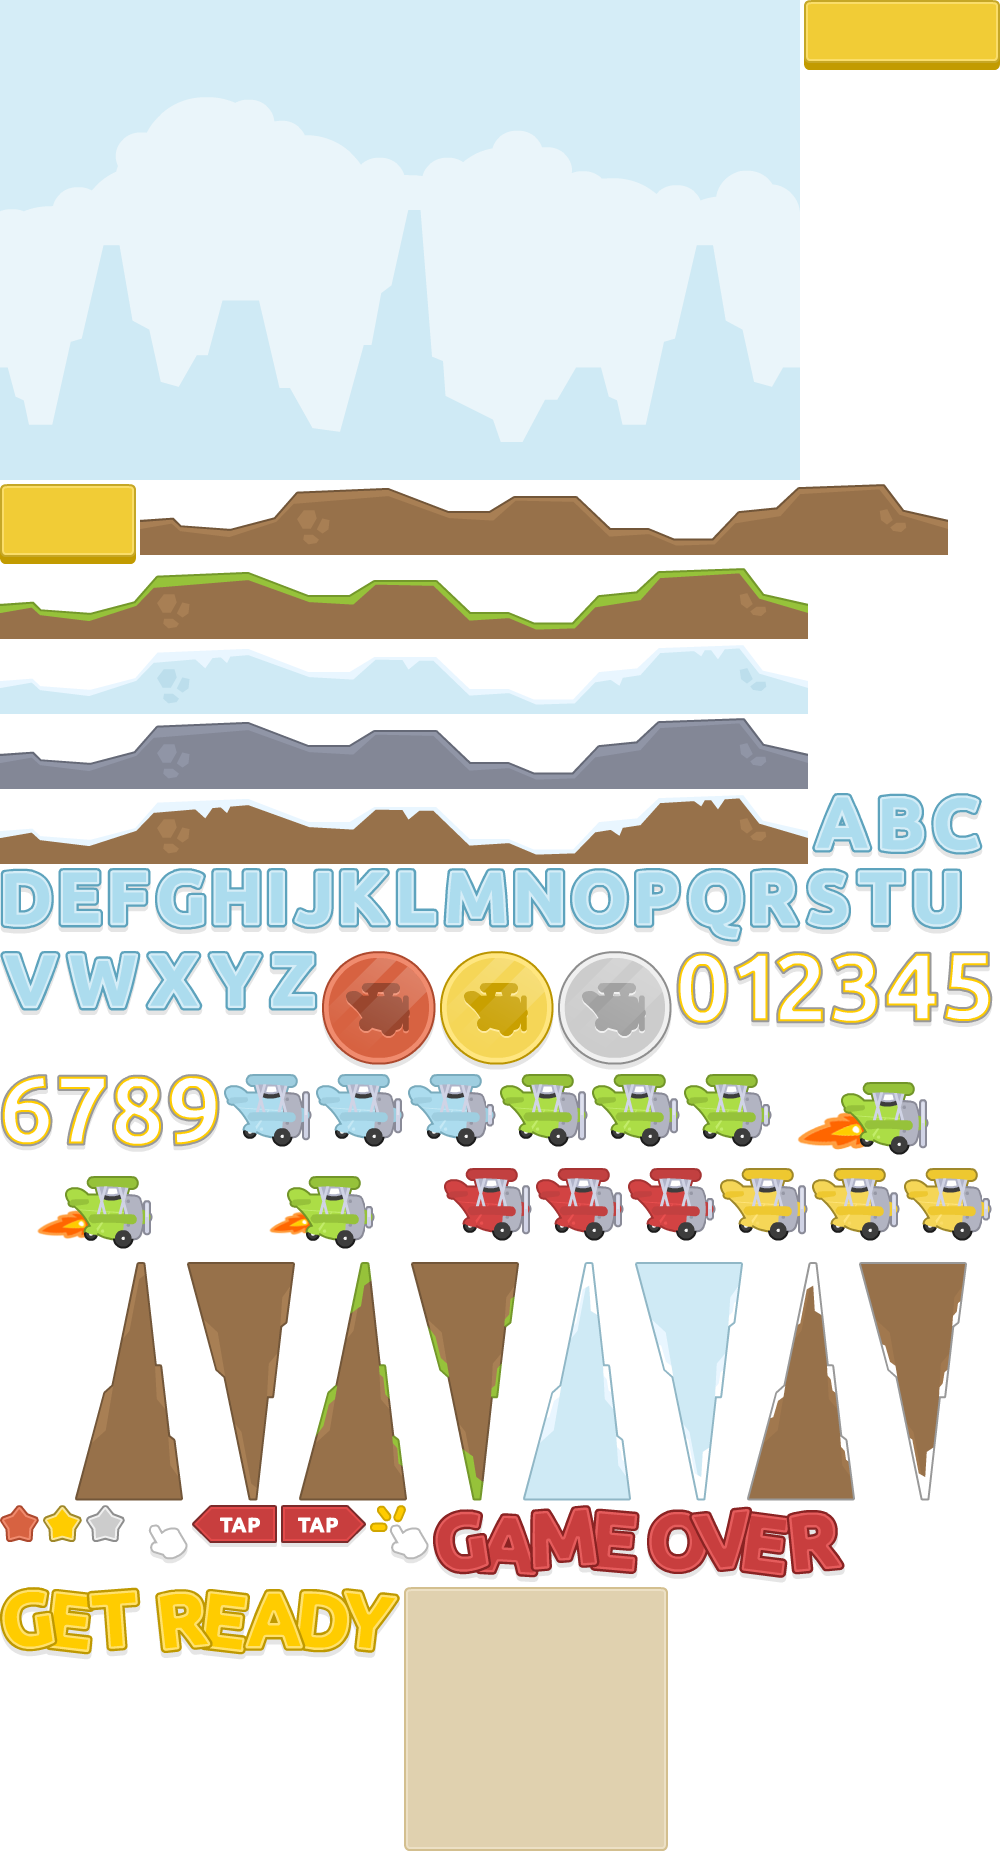
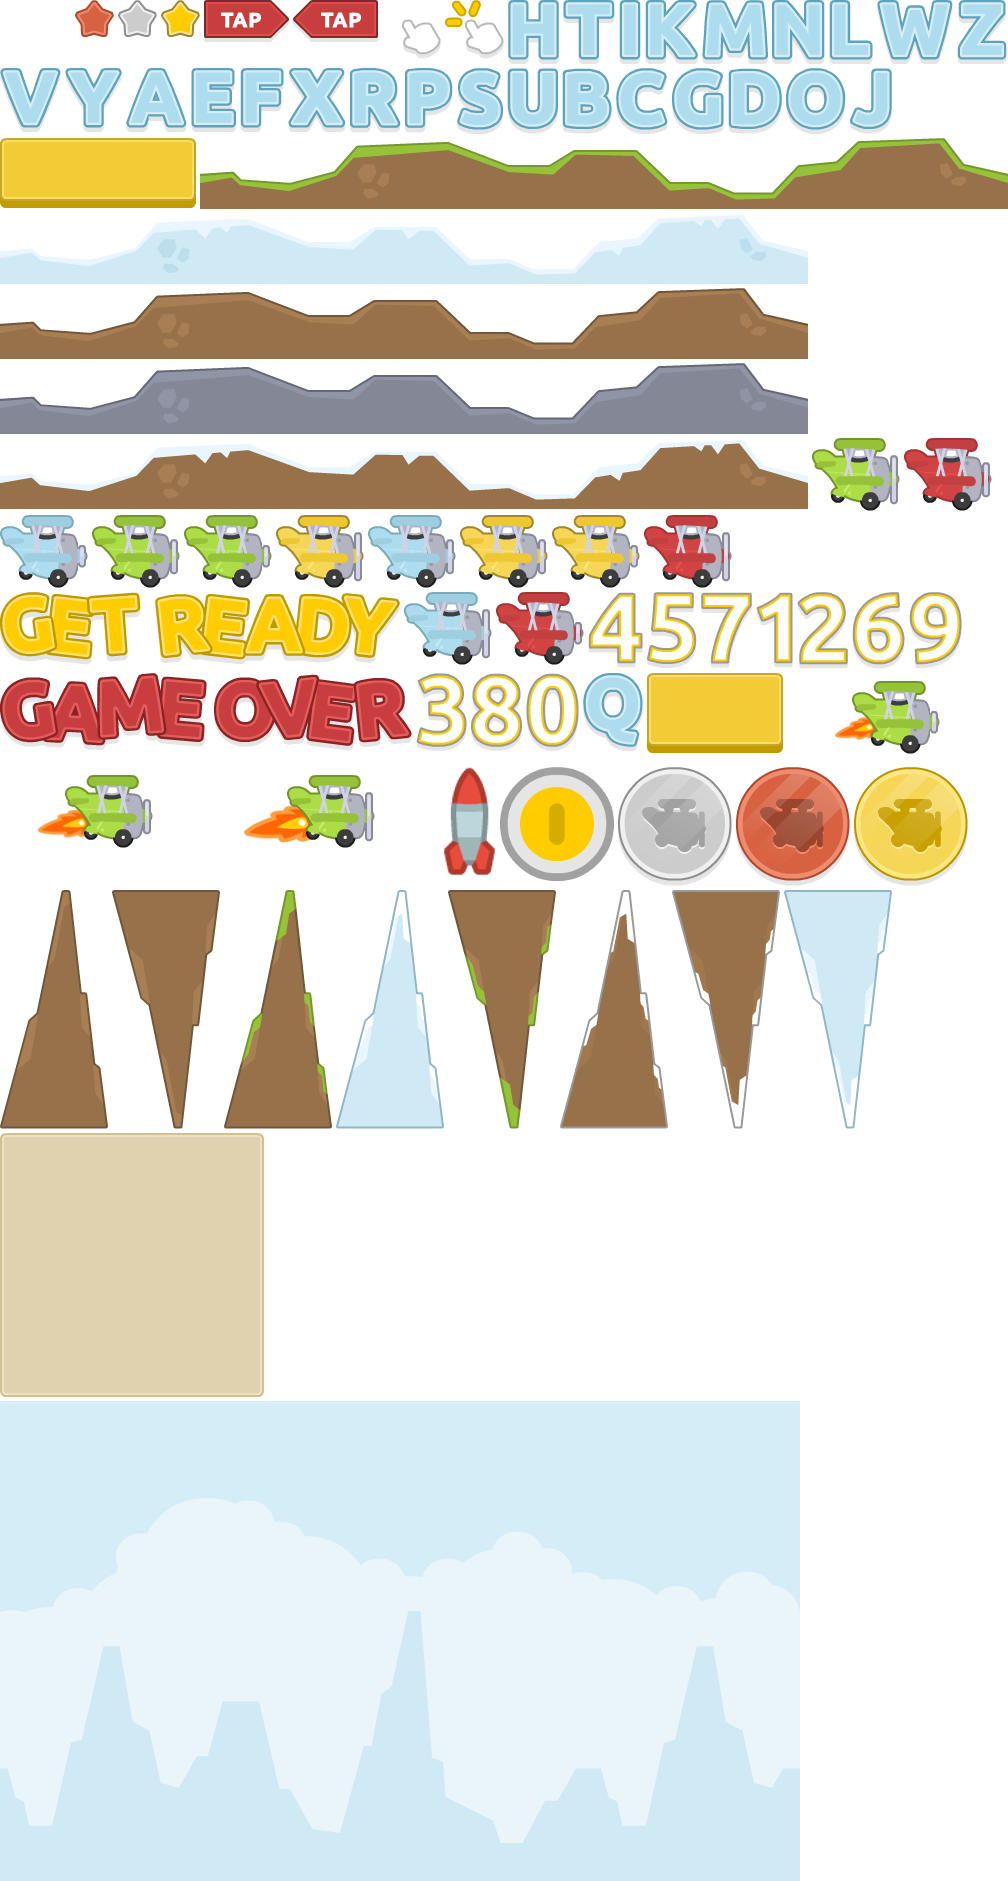
resolve #1 and #2

diff --git a/game/js/actors/TopBar.js b/game/js/actors/TopBar.js
@@ -12,9 +12,9 @@ class TopBar extends Phaser.Group {
       boundsAlignH: 'right',
       boundsAlignV: 'top',
     }, this)
-    const goldIcon = this.game.add.sprite(this.game.width - 8, this.goldLabel.position.y + this.goldLabel.height * 0.5, 'sheet', 'medalGold', this)
+    const goldIcon = this.game.add.sprite(this.game.width - 8, this.goldLabel.position.y + this.goldLabel.height * 0.5, 'sheet', 'coin', this)
     goldIcon.anchor.set(1, 0.5)
-    goldIcon.scale.set(this.goldLabel.height / goldIcon.height)
+    goldIcon.scale.set(this.goldLabel.height / goldIcon.height*0.8)
 
     this.rocketsLabel = this.game.add.text(this.game.width - 108, 8, '0', {
       font: '24px kenvector_future_thin',
@@ -23,9 +23,9 @@ class TopBar extends Phaser.Group {
       boundsAlignH: 'right',
       boundsAlignV: 'top',
     }, this)
-    const rocketsIcon = this.game.add.sprite(this.game.width - 116, this.rocketsLabel.position.y + this.rocketsLabel.height * 0.5, 'sheet', 'medalBronze', this)
+    const rocketsIcon = this.game.add.sprite(this.game.width - 130, this.rocketsLabel.position.y + this.rocketsLabel.height * 0.5, 'sheet', 'rocket', this)
     rocketsIcon.anchor.set(0.5)
-    rocketsIcon.scale.set(this.rocketsLabel.height / rocketsIcon.height)
+    rocketsIcon.scale.set(this.rocketsLabel.height / rocketsIcon.height * 0.8)
   }
 
   update () {
